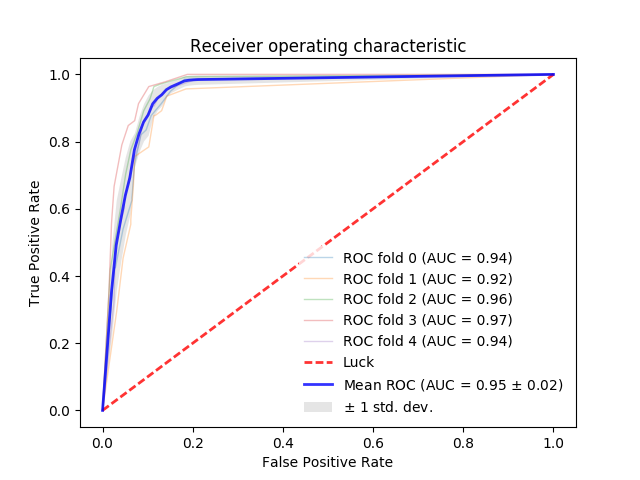
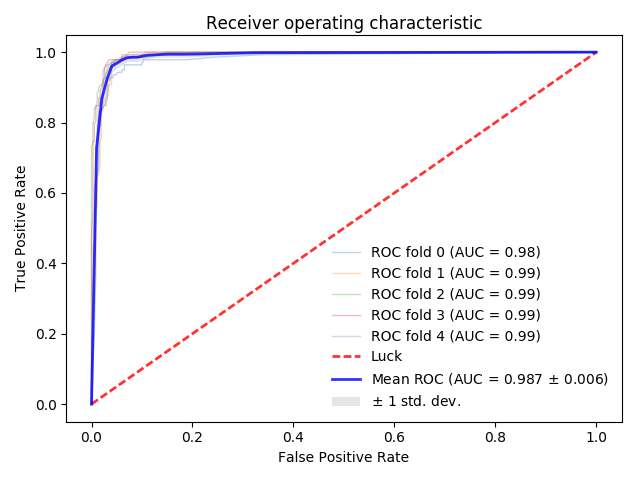
plotting and analyzing classifiers

diff --git a/tn_ml.py b/tn_ml.py
@@ -6,13 +6,21 @@ import sklearn.ensemble
 import sklearn.metrics
 import sklearn.model_selection
 import pandas as pd
+from sklearn import preprocessing
+from matplotlib import rcParams
+rcParams.update({'figure.autolayout': True})
 
 CV_FILE_SUFFIX = ".png"
 
-data = pd.read_csv('/home/user/Desktop/transposon/FreadI1_trimmed_sorted_analysis.csv', header=0)
+# data = pd.read_csv('/home/user/Desktop/transposon/FreadI1_trimmed_sorted_analysis.csv', header=0)
+data = pd.read_excel('/home/user/Desktop/transposon/sanity_check_classifier.xlsx', header=0)
 
-selected_features = [1, 3, 4, 5, 6, 7, 9]
+# selected_features = [1,3,4,5,6,7,8]
+selected_features = [0,1,2,3,4,5,6]
+
 features = data.iloc[:, selected_features]
+all_genes_features = features.iloc[:, [1,2,3,4,5,6]]
+# print(all_genes_features)
 
 ground_truth = pd.read_csv('training_set_Sc.csv', header=0)
 ground_truth = ground_truth.iloc[:, [0, 3]]
@@ -23,14 +31,30 @@ final_data = ground_truth.merge(features)
 
 label = final_data.iloc[:, 1]
 final_features = final_data.iloc[:, [2, 3, 4, 5, 6, 7]]
+# final_features = preprocessing.normalize(final_features)
+# print(final_features)
 
-def cross_validate(X, y):
+def cross_validate(X, y, data, all_genes_features, all_genes):
     
     # this is where the model is defined and trained, random_state is specified to ensure reproducibility
-    cv = sklearn.model_selection.StratifiedKFold(n_splits=5, random_state=15)
-    classifier = sklearn.ensemble.RandomForestClassifier(n_jobs=-1, random_state=15)
-    probas_ = sklearn.model_selection.cross_val_predict(classifier, X, y, method="predict_proba", cv=cv, n_jobs=6)[:, 1]
-
+    cv = sklearn.model_selection.StratifiedKFold(n_splits=5, random_state=0)
+    classifier = sklearn.ensemble.RandomForestClassifier(n_estimators=100, n_jobs=-1, random_state=0)
+    probas_ = sklearn.model_selection.cross_val_predict(classifier, X, y, method="predict_proba", cv=cv, n_jobs=-1)[:, 1]
+    # print(list(probas_))
+    classifier.fit(X, y,)
+    x = classifier.predict_proba(all_genes_features)[:, 1]
+    # print(all_genes_features)
+    # print(len(x))
+    all_genes['Hermes Verdict'] = x
+    all_genes.to_csv('all_anton_verdict.csv')
+    # print(all_genes)
+    prob = pd.Series(probas_)
+    verdict = pd.DataFrame()
+    verdict['name'] = data['Standard name']
+    verdict['label'] = y
+    verdict['verdict'] = prob
+    verdict.to_csv('training_hermes_verdict.csv')
+    
     # plotting of the ROC taken from the scikit-learn documentation
     tprs = []
     aucs = []
@@ -52,7 +76,7 @@ def cross_validate(X, y):
     mean_tpr[-1] = 1.0
     mean_auc = sklearn.metrics.auc(mean_fpr, mean_tpr)
     std_auc = numpy.std(aucs)
-    matplotlib.pyplot.plot(mean_fpr, mean_tpr, color='b', label=r"Mean ROC (AUC = %0.2f $\pm$ %0.2f)" % (mean_auc, std_auc), lw=2, alpha=.8)
+    matplotlib.pyplot.plot(mean_fpr, mean_tpr, color='b', label=r"Mean ROC (AUC = %0.3f $\pm$ %0.3f)" % (mean_auc, std_auc), lw=2, alpha=.8)
 
     std_tpr = numpy.std(tprs, axis=0)
     tprs_upper = numpy.minimum(mean_tpr + std_tpr, 1)
@@ -69,4 +93,28 @@ def cross_validate(X, y):
     matplotlib.pyplot.show()
 
 
-cross_validate(final_features, label)
+cross_validate(final_features, label, ground_truth, all_genes_features, data)
+
+def plot_feat_imp():
+    #feature importance plot
+    classifier = sklearn.ensemble.RandomForestClassifier(n_estimators=200, n_jobs=-1, random_state=15)
+    classifier.fit(final_features, label)
+    
+    feature_list=list(final_features.columns.values)
+    importances = list(classifier.feature_importances_)
+    feature_importances = [(feature, round(importance, 2)) for feature, 
+                           importance in zip(feature_list, importances)]
+    feature_importances = sorted(feature_importances, key = lambda x: x[1], reverse = True)
+    
+    # fig,ax = matplotlib.pyplot.subplots(figsize=(8, 5))
+
+    matplotlib.pyplot.style.use('fivethirtyeight')
+    x_values = list(range(len(importances)))
+    matplotlib.pyplot.bar(x_values, importances, orientation = 'vertical')
+    matplotlib.pyplot.xticks(x_values, feature_list, rotation=45)
+    matplotlib.pyplot.ylabel('Importance'); matplotlib.pyplot.title('Feature Importance');
+    #matplotlib.pyplot.gcf().sublots_adjust(bottom=0.15)
+    matplotlib.pyplot.savefig('sc_tn' + '_feature_importance')
+    matplotlib.pyplot.show()
+
+# plot_feat_imp()

diff --git a/chart_verdicts.py b/chart_verdicts.py
@@ -1,0 +1,24 @@
+import pandas as pd
+import matplotlib.pyplot as plt
+from scipy.stats import spearmanr, pearsonr
+
+data = pd.read_excel('sanity_check_2.xlsx')
+
+acds = data.iloc[:, [0, 2]]
+hermes = data.iloc[:, [0, 1]]
+hermes.columns = ['Standard name', 'Anton Verdict']
+merged = acds.merge(hermes)
+# print(merged)
+merged.to_csv('merged.csv')
+
+print(pearsonr(merged['Vlad Verdict'], merged['Anton Verdict']))
+
+sanity_check = pd.read_excel('sanity_check.xlsx').dropna()
+print(pearsonr(sanity_check['Sc RF verdict ScTn'], sanity_check['Sp RF verdict SpTn']))
+
+# plt.plot(sanity_check['Sc RF verdict ScTn'], sanity_check['Sp RF verdict SpTn'], 'o', color='green')
+# plt.savefig('test14.png')
+
+plt.plot(list(merged['Vlad Verdict']), list(merged['Anton Verdict']), 'o', color='green')
+plt.savefig('test18.png')
+plt.show()

diff --git a/both_hits_chart.py b/both_hits_chart.py
@@ -1,0 +1,12 @@
+import pandas as pd
+import matplotlib.pyplot as plt
+from scipy.stats import spearmanr, pearsonr
+
+data = pd.read_excel('both_hits.xlsx').dropna()
+# print(data)
+# print(pearsonr(data['Hermes Hits'], data['AcDs Hits']))
+
+# plt.plot(data['Hermes Hits'], data['AcDs Hits'], 'o', color='green')
+# plt.plot(data['Hermes NI'], data['AcDs NI'], 'o', color='blue')
+plt.plot(data['Hermes FI'], data['AcDs FI'], 'o', color='blue')
+plt.savefig('test13.png')

diff --git a/tempCodeRunnerFile.py b/tempCodeRunnerFile.py
@@ -1,3 +1,1 @@
-
-# print(x)
-# print(
+Ac/Ds
